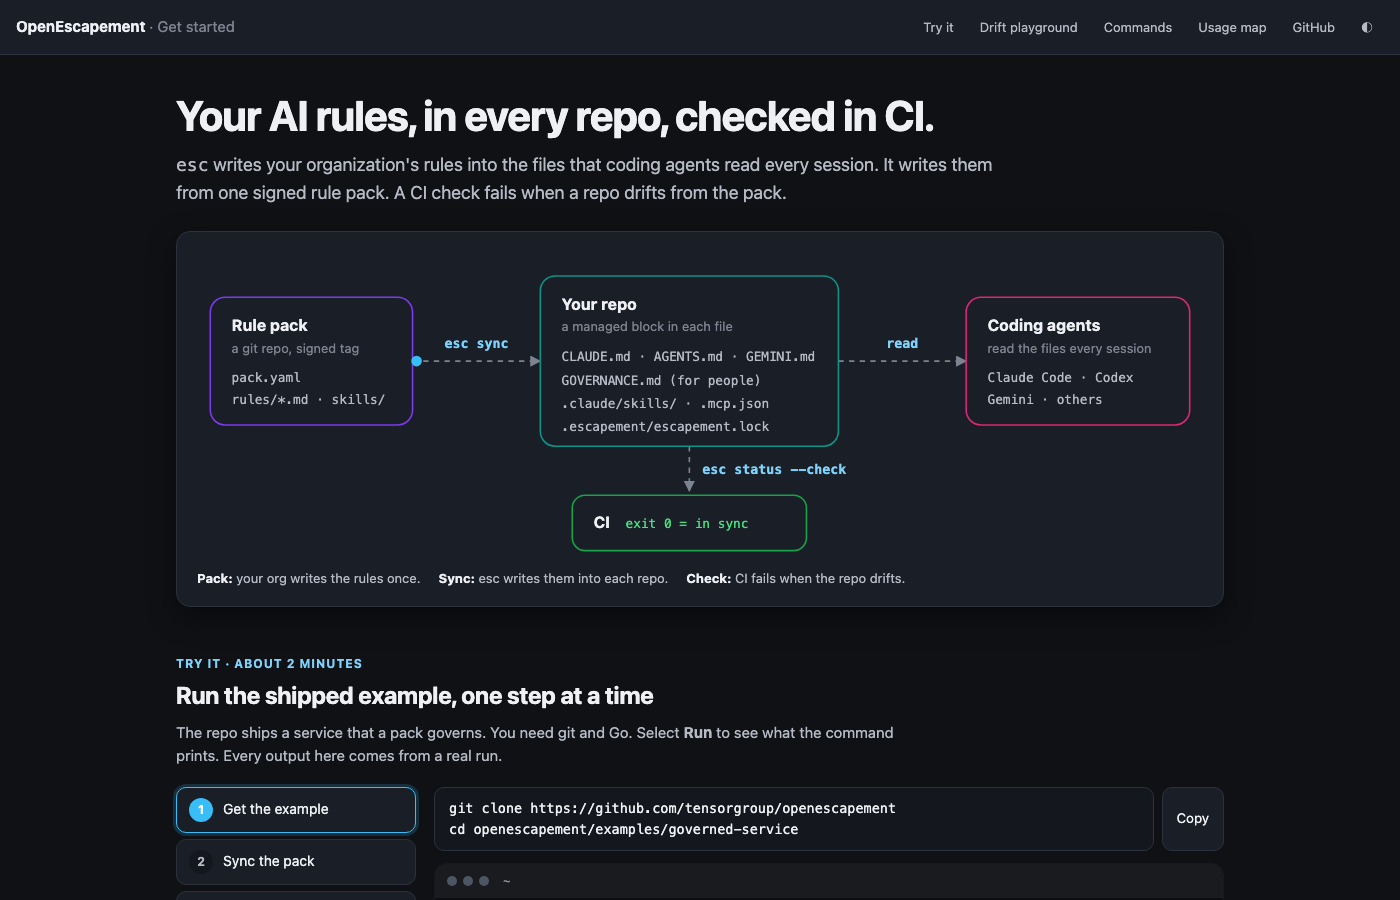
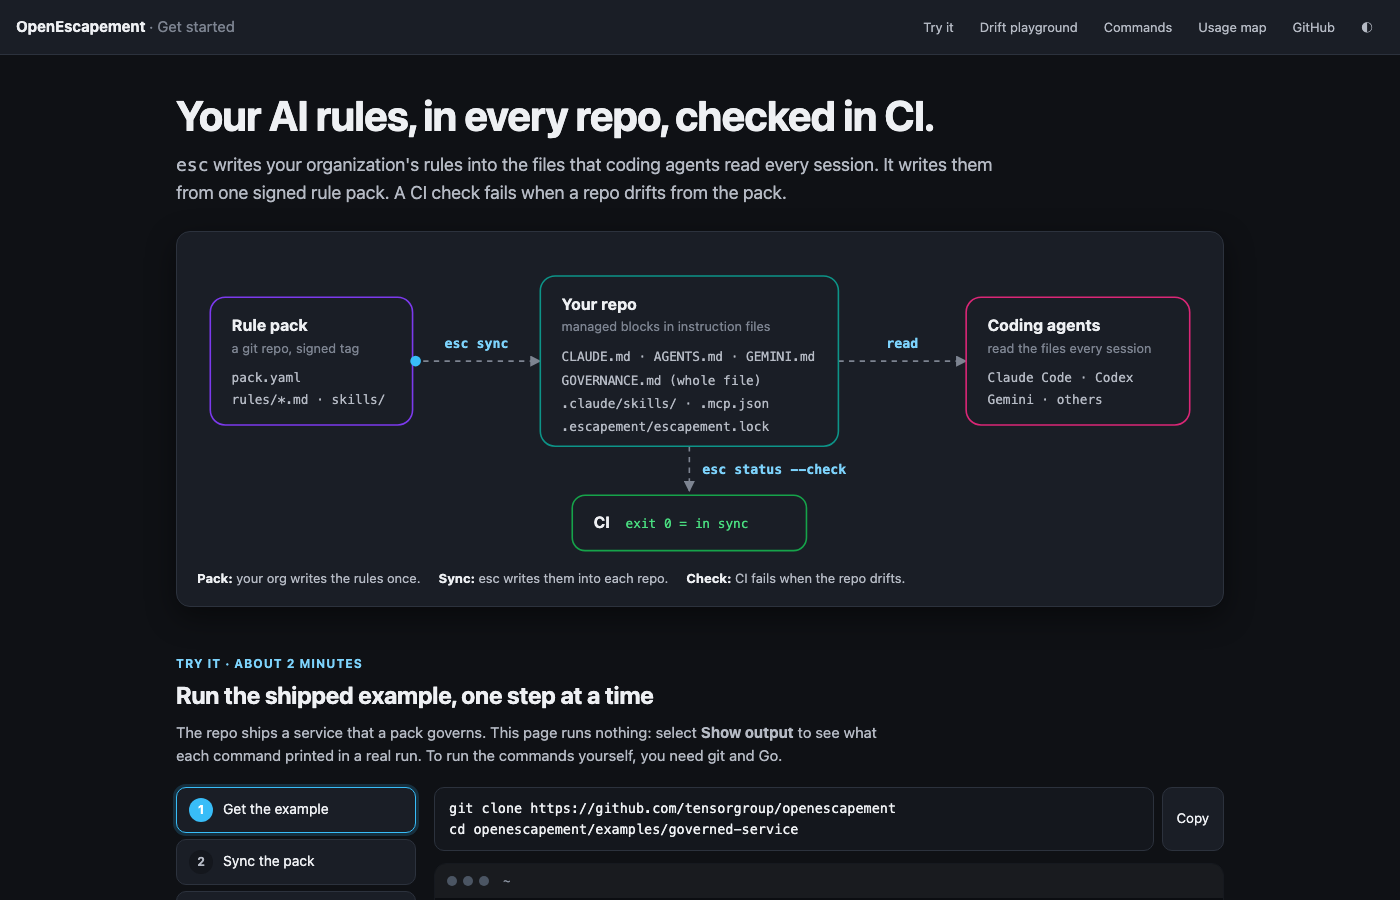
docs: fix what a second review caught in the getting-started docs
The installer needs cosign and installs to ~/.local/bin. Editing the config
keeps the targets esc init found. A local pack does not exist in CI, so a
repo publishes its pack before adding the Action. esc render and esc diff
cover only the Markdown files, not skills or MCP entries, and a pack update
offer can be declined. An orphan whose content was edited is kept with a
warning, not removed. The setup prompt now says esc init also writes a
signer template and a .gitignore. The start page says it replays recorded
output instead of running anything (Run is now Show output), copies a step's
full instruction, names what the command sheet needs, and labels
GOVERNANCE.md as a whole managed file.

diff --git a/docs/start/index.html b/docs/start/index.html
@@ -230,9 +230,9 @@ h2 { font-size: 24px; margin: 0 0 6px; letter-spacing: -.01em; }
         <!-- repo -->
         <rect class="n-box" x="330" y="30" width="280" height="160" rx="14" style="stroke: var(--repo)"/>
         <text class="n-title" x="350" y="62">Your repo</text>
-        <text class="n-sub" x="350" y="82">a managed block in each file</text>
+        <text class="n-sub" x="350" y="82">managed blocks in instruction files</text>
         <text class="n-mono" x="350" y="110">CLAUDE.md · AGENTS.md · GEMINI.md</text>
-        <text class="n-mono" x="350" y="132">GOVERNANCE.md (for people)</text>
+        <text class="n-mono" x="350" y="132">GOVERNANCE.md (whole file)</text>
         <text class="n-mono" x="350" y="154">.claude/skills/ · .mcp.json</text>
         <text class="n-mono" x="350" y="176">.escapement/escapement.lock</text>
 
@@ -265,7 +265,7 @@ h2 { font-size: 24px; margin: 0 0 6px; letter-spacing: -.01em; }
   <section id="try" aria-labelledby="try-title">
     <p class="eyebrow">Try it · about 2 minutes</p>
     <h2 id="try-title">Run the shipped example, one step at a time</h2>
-    <p class="sub">The repo ships a service that a pack governs. You need git and Go. Select <b>Run</b> to see what the command prints. Every output here comes from a real run.</p>
+    <p class="sub">The repo ships a service that a pack governs. This page runs nothing: select <b>Show output</b> to see what each command printed in a real run. To run the commands yourself, you need git and Go.</p>
 
     <div class="stepper">
       <ol class="steps" id="steps"></ol>
@@ -281,7 +281,7 @@ h2 { font-size: 24px; margin: 0 0 6px; letter-spacing: -.01em; }
         <div class="meaning" id="step-meaning"></div>
         <div class="step-nav">
           <button class="btn" type="button" id="step-prev">← Back</button>
-          <button class="btn primary" type="button" id="step-run">Run</button>
+          <button class="btn primary" type="button" id="step-run">Show output</button>
           <button class="btn" type="button" id="step-next">Next →</button>
         </div>
       </div>
@@ -329,7 +329,7 @@ h2 { font-size: 24px; margin: 0 0 6px; letter-spacing: -.01em; }
   <section id="commands" aria-labelledby="cmd-title">
     <p class="eyebrow">Everyday commands</p>
     <h2 id="cmd-title">What to run, and what you see</h2>
-    <p class="sub">Run these at the root of a governed repo.</p>
+    <p class="sub">These need an installed <code>esc</code> (see the README's Install section). Run them at the root of a configured repo. For the version commands, use a real tag from your git pack in place of <code>v2.0.0</code>.</p>
     <div class="card cheat-wrap">
       <table class="cheat">
         <thead><tr><th scope="col">I want to…</th><th scope="col">Run</th><th scope="col">You see</th></tr></thead>
@@ -494,12 +494,12 @@ h2 { font-size: 24px; margin: 0 0 6px; letter-spacing: -.01em; }
     $('step-next').disabled = i === STEPS.length - 1;
     const prompt = s.cmd.split('\n').filter((l) => !l.startsWith('#')).map((l) => '$ ' + l);
     if (run) cancel = typeInto($('step-out'), s.hasPrompts ? s.out : prompt.concat(s.out), s.code);
-    else $('step-out').innerHTML = prompt.map(paint).join('\n') + '\n<span class="t-dim">Select Run to see the output.</span>';
+    else $('step-out').innerHTML = prompt.map(paint).join('\n') + '\n<span class="t-dim">Select Show output to see what it prints.</span>';
   }
   $('step-run').addEventListener('click', () => show(cur, true));
   $('step-prev').addEventListener('click', () => show(Math.max(0, cur - 1), false));
   $('step-next').addEventListener('click', () => show(Math.min(STEPS.length - 1, cur + 1), true));
-  $('step-copy').addEventListener('click', (e) => copy(STEPS[cur].cmd.split('\n').filter((l) => !l.startsWith('#')).join('\n'), e.currentTarget));
+  $('step-copy').addEventListener('click', (e) => copy(STEPS[cur].cmd, e.currentTarget));
   show(0, false);
 
   // ── the playground ──
@@ -551,10 +551,10 @@ h2 { font-size: 24px; margin: 0 0 6px; letter-spacing: -.01em; }
   // ── cheat sheet ──
   const CHEAT = [
     ['Start governing a repo', 'esc init', 'Initialized <repo>/.escapement/config.yaml, then the files it found. It writes no policy.'],
-    ['See the rules before they land', 'esc render --stdout', 'Each managed block. Nothing is written.'],
+    ['See the rules before they land', 'esc render --stdout', 'The Markdown each file will get. Skills and MCP entries are not shown.'],
     ['Write the rules into the repo', 'esc sync', 'Synced 1 pack(s), 6 artifact(s) applied, 0 skipped:'],
     ['Check for drift (CI)', 'esc status --check', 'All policy artifacts in sync. and exit 0, or Drift detected. and exit 1'],
-    ['See what changed', 'esc diff', 'A unified diff: actual (-) against expected (+). Exit 1 when they differ.'],
+    ['See what changed', 'esc diff', 'A unified diff of the Markdown files: actual (-) against expected (+). Exit 1 when they differ.'],
     ['Review a new pack version first', 'esc diff --against v2.0.0', 'The policy change, before you move the pin.'],
     ['Move to a new pack version', 'esc update --ref v2.0.0', 'Updated <source>: <old> → v2.0.0. Then esc diff, esc sync, and a PR.'],
     ['Undo a hand edit in a block', 'esc sync --force', 'The pack\'s block again. Your other text stays.'],

diff --git a/README.md b/README.md
@@ -150,7 +150,9 @@ go install github.com/tensorgroup/openescapement/cmd/esc@latest
 ```
 
 Release binaries are cosign-signed with SLSA build-level-3 provenance. See
-[VERIFYING.md](VERIFYING.md). Check the install with `esc version`.
+[VERIFYING.md](VERIFYING.md). The installer needs [cosign](https://docs.sigstore.dev/cosign/system_config/installation/)
+to verify the download. It puts `esc` in `~/.local/bin` and says so when that directory is
+not on your `PATH`. Check the install with `esc version`.
 
 <a id="quickstart"></a>
 ## Quick start in your repo
@@ -187,7 +189,9 @@ below the file's title, and nothing is written now.
 instruction files it found as targets. Details:
 [docs/reference.md](docs/reference.md#adding-esc-to-a-repo-that-already-has-instruction-files).
 
-**2. Point the config at a pack.** Edit `.escapement/config.yaml`:
+**2. Point the config at a pack.** Edit `packs` in `.escapement/config.yaml`. Keep the
+`targets` list that `esc init` wrote: it names the files it found. This example repo has only
+`CLAUDE.md`:
 
 ```yaml
 schema: 1
@@ -208,7 +212,9 @@ empty `ref`, as in [`examples/governed-service`](examples/governed-service/.esca
 shows an example). Without a matching key, esc refuses the tag and exits 3. The tag must
 also match the `version` in the pack's `pack.yaml`.
 
-**3. Preview what will land.** Nothing is written.
+**3. Preview the Markdown that will land.** The preview shows the instruction files and
+`GOVERNANCE.md`, not skills or MCP entries; read those in the pack. If esc offers a pack
+update, answer `n` to keep your files as they are.
 
 ```sh
 esc render --stdout
@@ -229,7 +235,8 @@ esc status --check
 ```
 
 **5. Commit and gate it in CI.** Commit `.escapement/` (with its lockfile) and the rendered
-files. Then add the GitHub Action, so drift fails the build:
+files. A local pack directory does not exist in CI, so publish the pack to git with a signed tag
+and point the config at it first. Then add the GitHub Action, so drift fails the build:
 
 ```yaml
 - uses: tensorgroup/openescapement@main
@@ -260,7 +267,8 @@ the esc source checkout, if I have one, is at <path or "none">.
    subjects both will speak to, and a recommendation for each: keep mine, let the
    pack's rule stand, or take it to the pack as a PR.
 2. Run `esc init --yes`. It scaffolds `.escapement/config.yaml`, pre-fills `targets`
-   with the files it detected, and writes nothing else. If CLAUDE.md imports
+   with the files it detected, and adds a signer-file template and a `.gitignore`
+   under `.escapement/`. It writes nothing outside `.escapement/`. If CLAUDE.md imports
    AGENTS.md, set `targets` to `agents` plus `skills` and `mcp`, so the block lands
    once and the pack's skills and MCP servers still render.
 3. Point the config at my pack repo: a git source with a `ref` and a trusted signer in
@@ -292,10 +300,10 @@ matching prompt for a brand-new project; see
 | I want to… | Run | You see |
 |---|---|---|
 | Start governing a repo | `esc init` | `Initialized <repo>/.escapement/config.yaml` and the files it found |
-| See the rules before they land | `esc render --stdout` | each managed block, nothing written |
+| See the rules before they land | `esc render --stdout` | the Markdown each file will get (no skills or MCP entries) |
 | Write the rules into the repo | `esc sync` | `Synced 1 pack(s), 6 artifact(s) applied, 0 skipped:` |
 | Check for drift (CI) | `esc status --check` | `All policy artifacts in sync.` and exit 0, or `Drift detected.` and exit 1 |
-| See what changed | `esc diff` | a unified diff: actual (`-`) against expected (`+`); exit 1 when they differ |
+| See what changed | `esc diff` | a unified diff of the Markdown files: actual (`-`) against expected (`+`); exit 1 when they differ. Skills and MCP entries are left out; `esc status --check` covers them |
 | Review a new pack version first | `esc diff --against v2.0.0` | the policy change, before you move the pin |
 | Move to a new pack version | `esc update --ref v2.0.0` | `Updated <source>: <old> → v2.0.0`; then `esc diff`, `esc sync`, and a PR |
 | Undo a hand edit in a block | `esc sync --force` | the pack's block again; your other text stays |
@@ -330,7 +338,7 @@ stateDiagram-v2
 | `missing` | A file or its block is not there. | `esc sync` |
 | `stale` | The content came from an older pack state, or a pin is not synced yet. | `esc sync` |
 | `altered` | Someone edited the text inside the block. | `esc diff`, then move the edit out of the block or run `esc sync --force`. To change a rule, open a PR against the pack. |
-| `orphan` | A pack no longer provides a block or skill. | The next `esc sync` removes it. |
+| `orphan` | A pack no longer provides a block or skill. | `esc sync` removes it. If someone edited it or added files, sync keeps them and warns; review them first. |
 
 More detail: [local amendments](docs/reference.md#local-amendments) and
 [`--json` output for scripts](docs/reference.md#json-output---json).
